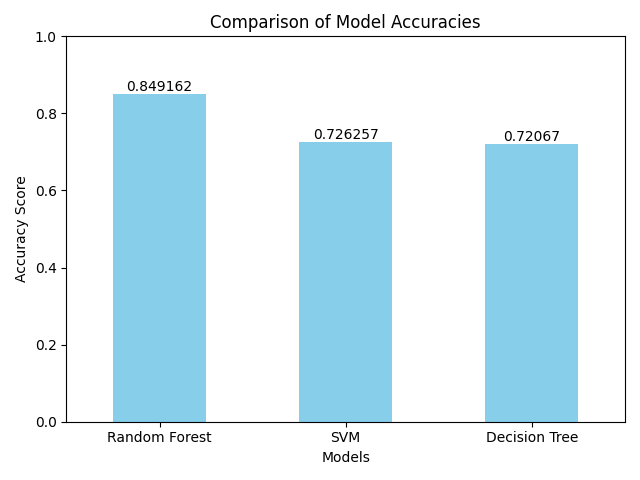
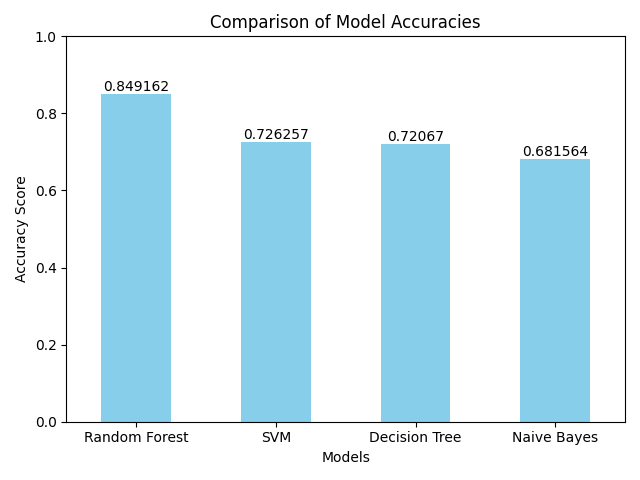
Added the Naive Bayes classifier; readme not updated

Changed region(s): [[0.375, 0.25, 0.7188, 0.9375], [0.125, 0.1562, 0.3438, 0.9375], [0.75, 0.25, 0.9375, 0.9375]]

diff --git a/main.py b/main.py
@@ -8,6 +8,7 @@ from src.decision_tree.decision_tree_train import decision_tree_main
 from src.preprocess import preprocess_data
 from src.random_forest.rf_main import random_forest_main
 from src.svm.svm_train import svm_main
+from src.naive_bayes.bayes_main import naive_bayes_main
 from src.visualize import (
     plot_confusion_matrix,
     plot_feature_importances,
@@ -43,7 +44,7 @@ def parse_args():
         "--model",
         type=str,
         default="random_forest",
-        choices=["random_forest", "svm", "decision_tree", "all"],
+        choices=["random_forest", "svm", "decision_tree","naive_bayes", "all"],
         help='Specify the model to train or use "all" to compare models.',
     )
     return parser.parse_args()
@@ -90,12 +91,17 @@ def main():
         # Call the SVM training and evaluation function
         model, predictions = svm_main(X_train, y_train, X_val, y_val)
         test_predictions = model.predict(X_test)
+    elif args.model == "naive_bayes":
+        # Call the Naive Bayes training and evaluation function
+        model, predictions = naive_bayes_main(X_train, y_train, X_val, y_val)
+        test_predictions = model.predict(X_test)        
     elif args.model == "all":
         # Function Handler
         model_functions = {
             "Random Forest": random_forest_main,
             "SVM": svm_main,
             "Decision Tree": decision_tree_main,
+            "Naive Bayes": naive_bayes_main,
         }
 
         # Initialize dictionary to store accuracy scores

diff --git a/src/naive_bayes/bayes_main.py b/src/naive_bayes/bayes_main.py
@@ -1,0 +1,20 @@
+from sklearn.naive_bayes import GaussianNB
+from src.evaluate_model import evaluate_model
+
+
+from sklearn.metrics import accuracy_score
+
+
+def evaluate_model(model, X_val, y_val):
+    predictions = model.predict(X_val)
+    accuracy = accuracy_score(y_val, predictions)
+    model_name = type(model).__name__
+    print(f"Model: {model_name}, Accuracy: {accuracy:.2f}")
+    return predictions
+
+
+def naive_bayes_main(X_train, y_train, X_val, y_val):
+    model = GaussianNB()
+    model.fit(X_train, y_train)
+    predictions = evaluate_model(model, X_val, y_val)
+    return model, predictions

diff --git a/src/decision_tree/decision_tree_train.py b/src/decision_tree/decision_tree_train.py
@@ -62,7 +62,7 @@ def decision_tree_main(X_train, y_train, X_val, y_val):
     predictions = [tree.predict(val_data) for val_data in X_val_list]
     # debug_accuracy_score(y_val_list, predictions)
     print(
-        f"Model: 'Decision Tree', Accuracy: {accuracy_score(y_val_list, predictions):.2f}"
+        f"Model: Decision Tree, Accuracy: {accuracy_score(y_val_list, predictions):.2f}"
     )
 
     return tree, predictions
